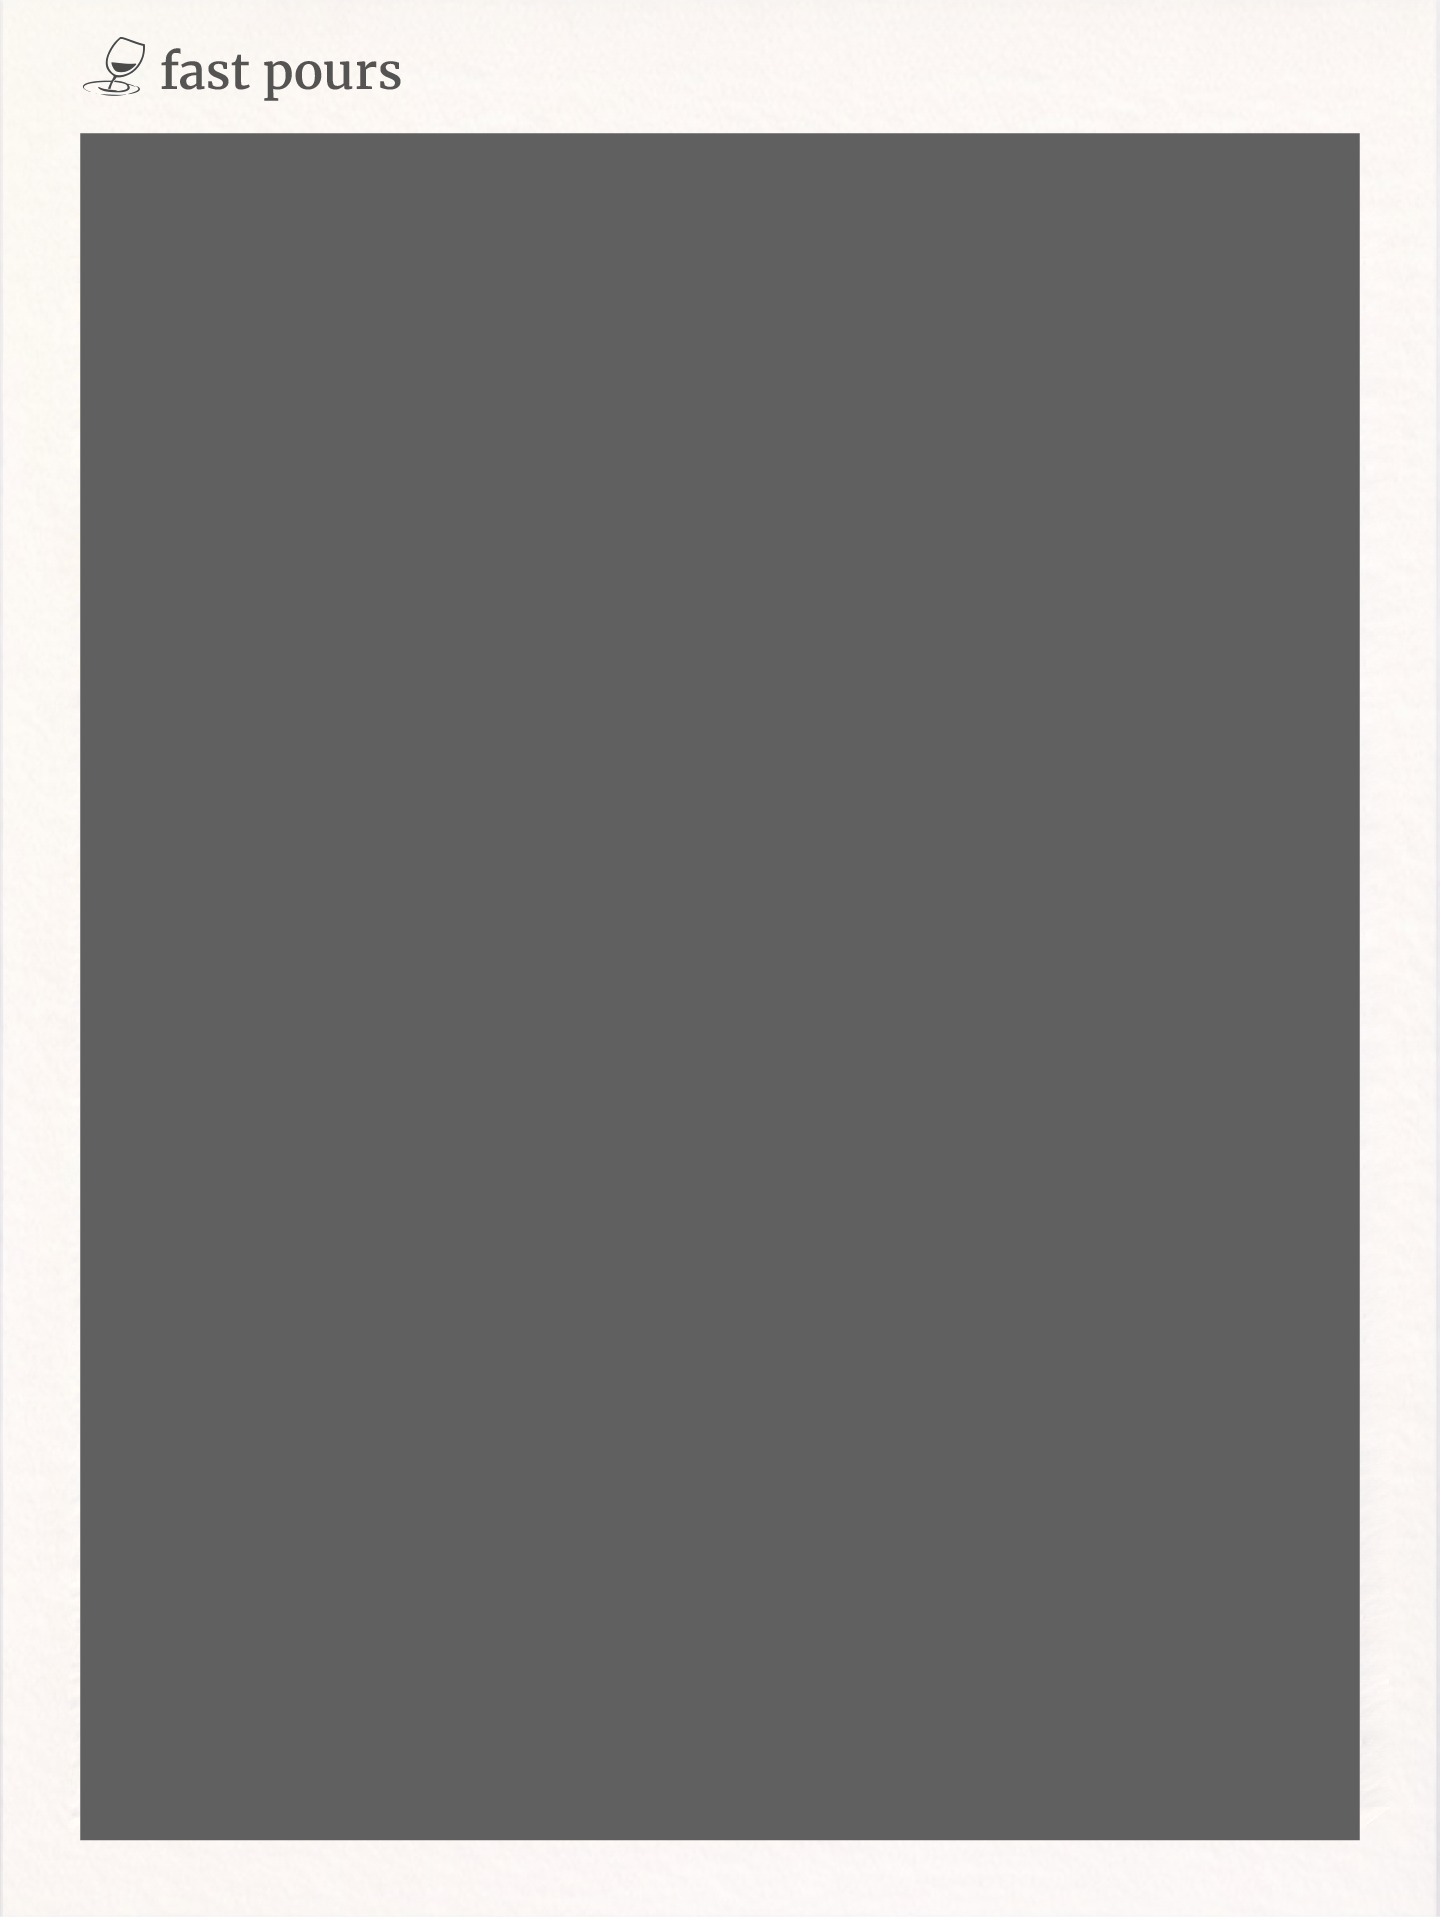
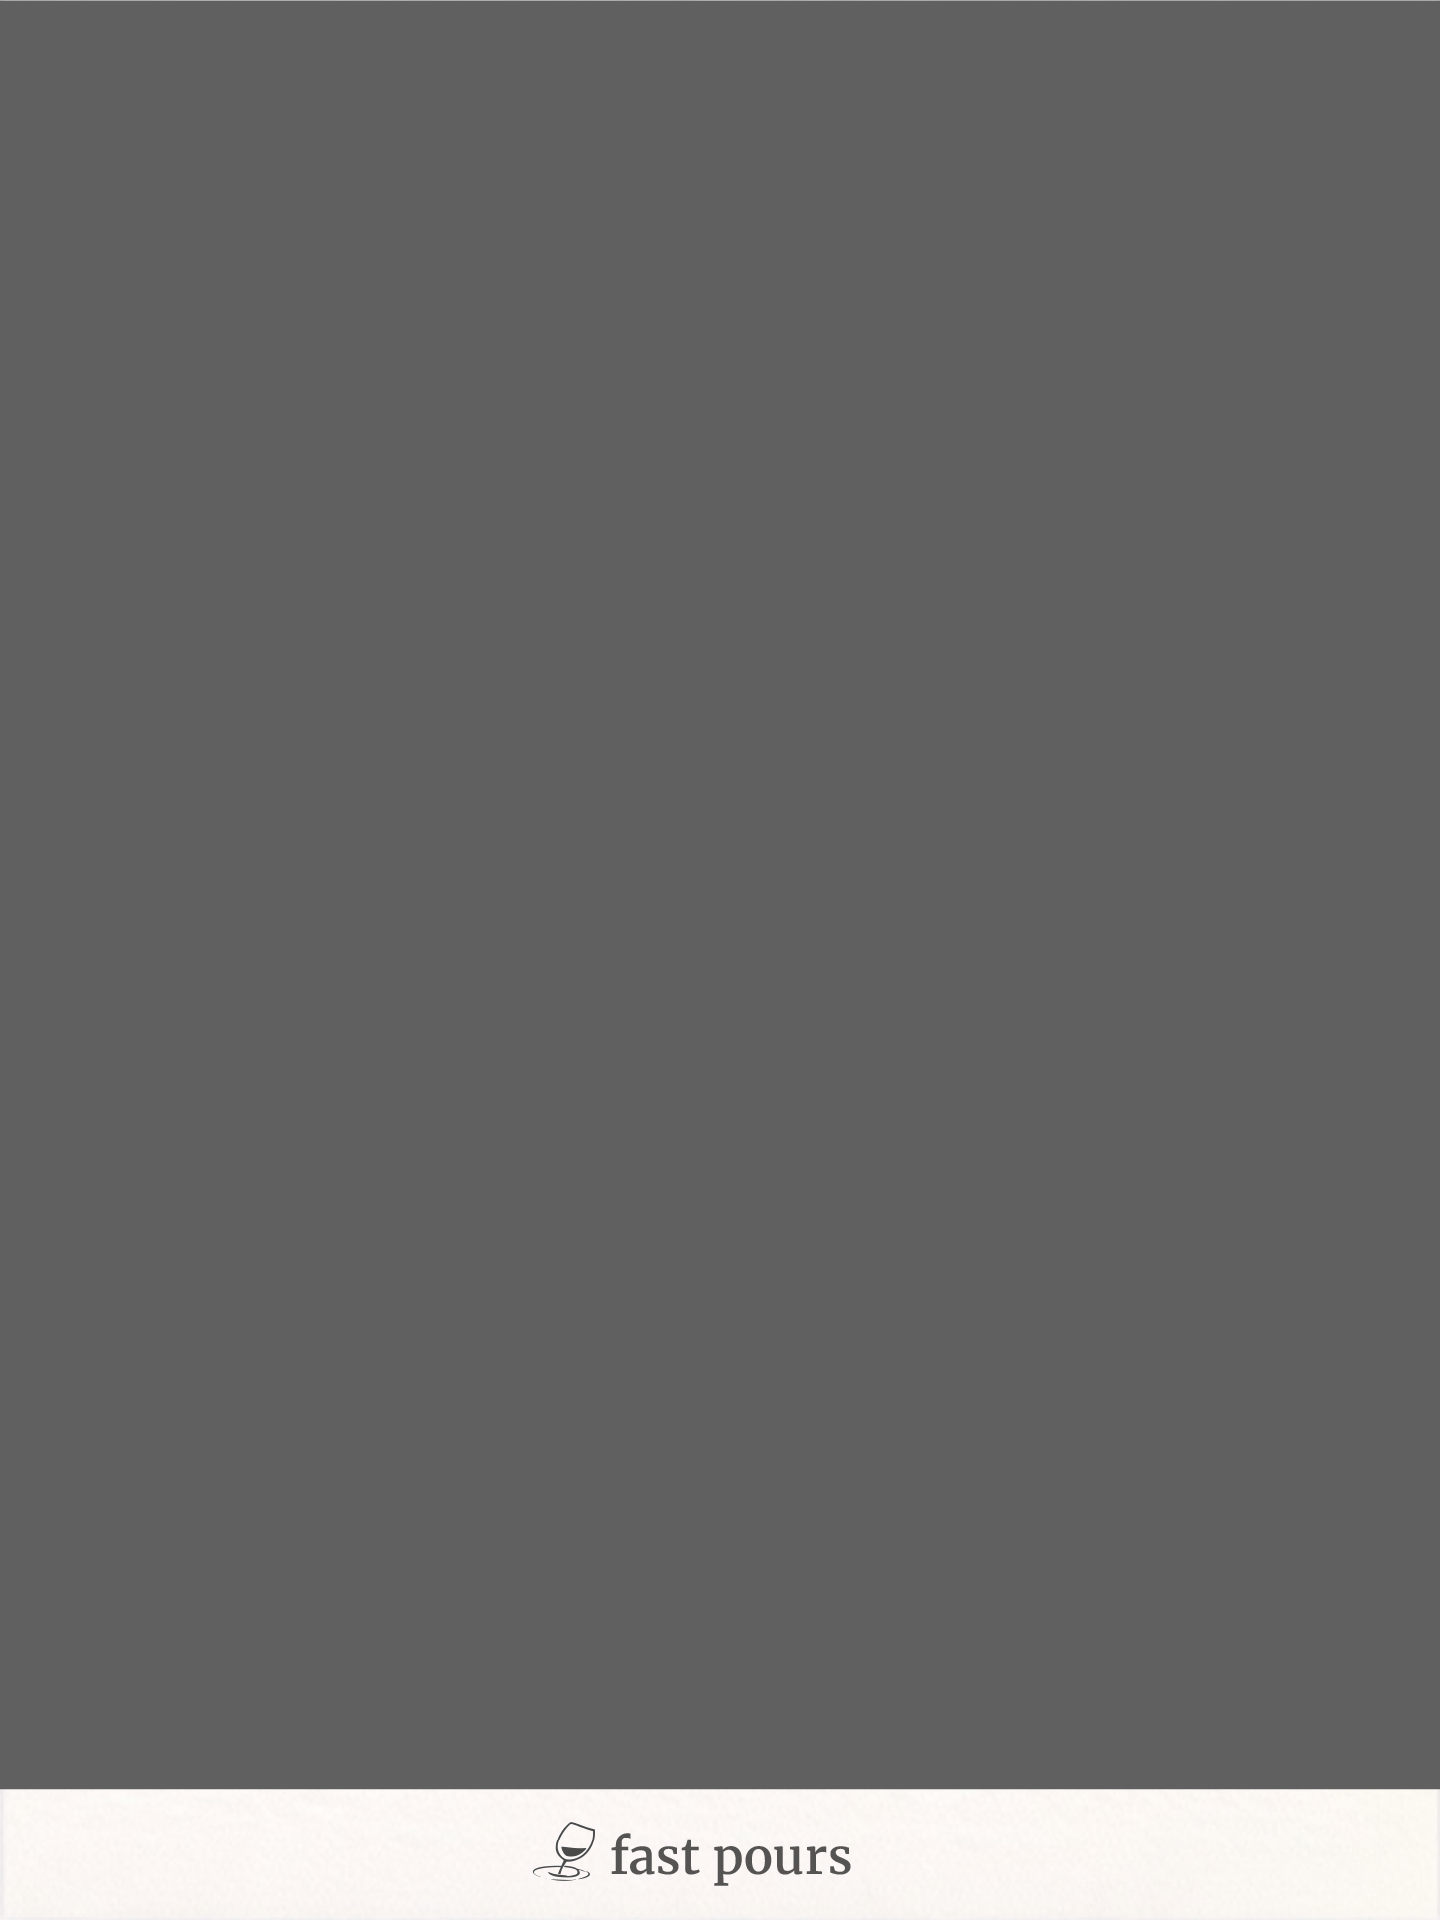
feat(fastpours): updated default template

Changed region(s): [[0.0, 0.0, 1.0, 1.0]]

diff --git a/fastpours/index.html b/fastpours/index.html
@@ -184,8 +184,8 @@ button:focus-visible {
 /* ================= CONFIG ================= */
 const CANVAS_WIDTH = 1440;
 const CANVAS_HEIGHT = 1920;
-const PADDING = 80;        // left, right, bottom
-const TOP_PADDING = 133;   // top
+const PADDING = 0;        // left, right, top
+const BOTTOM_PADDING = 130;   // bottom
 const HOLD_DELAY = 400;
 const HOLD_MOVE_THRESHOLD = 10;
 const SNAP_THRESHOLD = 8;
@@ -196,9 +196,9 @@ const KEY_NUDGE_FAST = 5;
 /* ================= DERIVED BOX ================= */
 const BOX = {
   x: PADDING,
-  y: TOP_PADDING,
+  y: PADDING,
   width: CANVAS_WIDTH - 2*PADDING,
-  height: CANVAS_HEIGHT - (TOP_PADDING + PADDING)
+  height: CANVAS_HEIGHT - (BOTTOM_PADDING + PADDING)
 };
 
 /* ================= STATE ================= */
